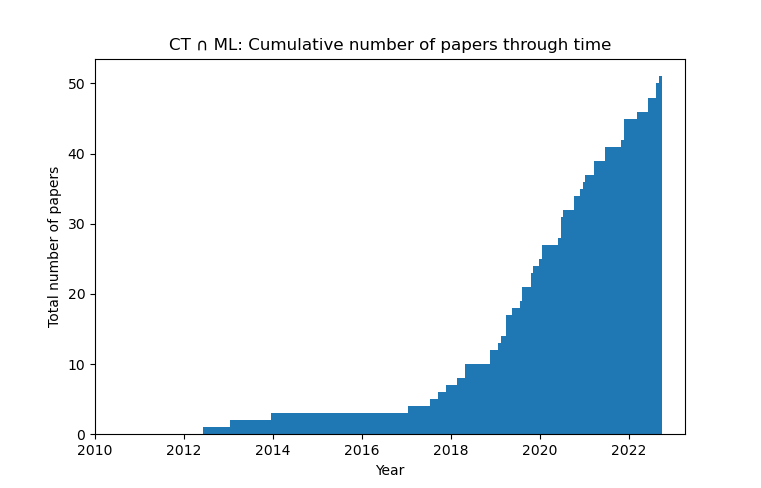
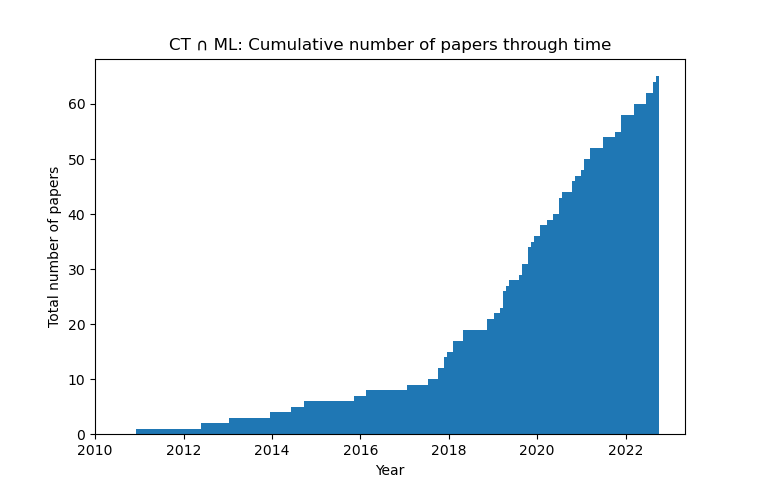
Added papers from David Corfield's list:
https://ncatlab.org/davidcorfield/show/probability#references

diff --git a/README.md b/README.md
@@ -21,6 +21,7 @@ Feel free to contribute to this list - preferably by creating a pull request.
 * [Compositionality for Recursive Neural Networks](https://arxiv.org/abs/1901.10723)
 * [Deep neural networks as nested dynamical systems](https://arxiv.org/abs/2111.01297)
 * [Neural network layers as parametric spans](https://arxiv.org/abs/2208.00809)
+* [Categories of Differentiable Polynomial Circuits for Machine Learning](https://arxiv.org/abs/2203.06430)
 
 ### Differentiable programming / automatic differentiation
 * [Differentiable Causal Computations via Delayed Trace](https://arxiv.org/abs/1903.01093)
@@ -36,6 +37,14 @@ Feel free to contribute to this list - preferably by creating a pull request.
 * [A Convenient Category for Higher-Order Probability Theory](https://arxiv.org/abs/1701.02547)
 * [Bimonoidal Structure of Probability Monads](https://arxiv.org/abs/1804.03527)
 * [Representable Markov Categories and Comparison of Statistical Experiments in Categorical Probability](https://arxiv.org/abs/2010.07416)
+* [De Finneti's construction as a categorical limit](https://arxiv.org/abs/2003.01964)
+* [A Probability Monad as the Colimit of Spaces of Finite Samples](https://arxiv.org/abs/1712.05363)
+* [A Probabilistic Dependent Type System based on Non-Deterministic Beta Reduction](https://arxiv.org/abs/1602.06420)
+* [Probability, valuations, hyperspace: Three monads on Top and the support as a morphism](https://arxiv.org/abs/1910.03752)
+* [Categorical Probability Theory](https://arxiv.org/abs/1406.6030)
+* [Information structures and their cohomology](https://arxiv.org/abs/1709.07807)
+* [Computable Stochastic Processes](https://arxiv.org/abs/1409.4667)
+* [Compositional Semantics for Probabilistic Programs with Exact Conditioning](https://arxiv.org/abs/2101.11351)
 
 ### Bayesian/Causal inference
 * [A category theory framework for Bayesian Learning](https://arxiv.org/abs/2111.14293)
@@ -49,6 +58,10 @@ Feel free to contribute to this list - preferably by creating a pull request.
 * [Bayesian Updates Compose Optically](https://arxiv.org/abs/2006.01631)
 * [Automatic Backward Filtering Forward Guiding for Markov processes and graphical models](https://arxiv.org/abs/2010.03509)
 * [A Channel-Based Perspective on Conjugate Priors](https://arxiv.org/abs/1707.00269)
+* [A Type Theory for Probabilistic and Bayesian Reasoning](https://arxiv.org/abs/1511.09230)
+* [Denotational validation of higher-order Bayesian inference](https://arxiv.org/abs/1711.03219)
+* [The Geometry of Bayesian Programming](https://arxiv.org/abs/1904.07425)
+* [Relational Reasoning for Markov Chains in a Probabilistic Guarded Lambda Calculus](https://arxiv.org/abs/1802.09787)
 
 ### Topological Data Analysis
 * [On Characterizing the Capacity of Neural Networks using Algebraic Topology](https://arxiv.org/abs/1802.04443)
@@ -84,3 +97,4 @@ Feel free to contribute to this list - preferably by creating a pull request.
 * [Sheaf Neural Networks with Connection Laplacians](https://arxiv.org/abs/2206.08702)
 * [Diegetic representation of feedback in open games](https://arxiv.org/abs/2206.12338)
 * [Assessing the Unitary RNN as an End-to-End Compositional Model of Syntax](https://arxiv.org/abs/2208.05719)
+* [Classifying Clustering Schemes](https://arxiv.org/abs/1011.5270)
